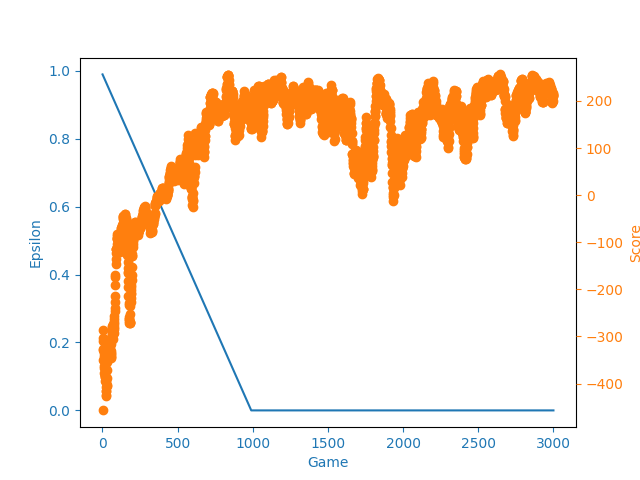
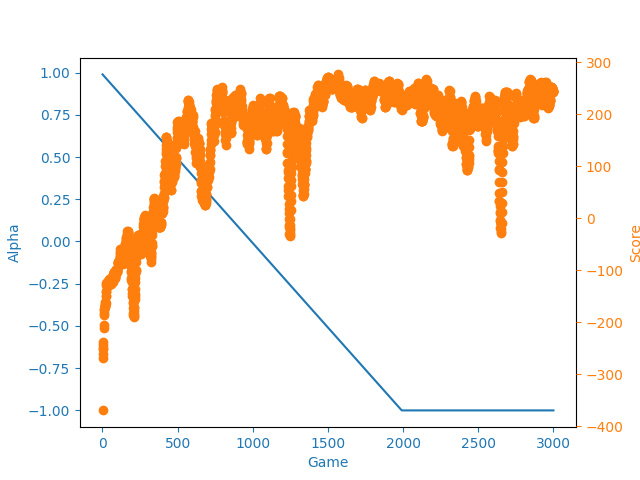
entropy regularization method

diff --git a/RL/Gymnasium/Mini projects/Actor_Critic/Lunar Lander/Actor_Critic.py b/RL/Gymnasium/Mini projects/Actor_Critic/Lunar Lander/Actor_Critic.py
@@ -55,7 +55,7 @@ class ActorCritic(nn.Module):
             entropy = torch.tensor(action_distribution.entropy())
             loss += (action_loss + value_loss - self.alpha * entropy)
 
-        self.alpha =  torch.tensor(max((self.alpha.item() - 1e-3), 0))
+        self.alpha =  torch.tensor(max((self.alpha.item() - 1e-3), -1))
         return loss
 
     def clearMemory(self):

diff --git a/RL/Gymnasium/Mini projects/Actor_Critic/Lunar Lander/utils.py b/RL/Gymnasium/Mini projects/Actor_Critic/Lunar Lander/utils.py
@@ -10,7 +10,7 @@ def plotLearning(x, scores, alphas, filename, lines=None):
 
     ax.plot(x, alphas, color="C0")
     ax.set_xlabel("Game", color="C0")
-    ax.set_ylabel("Epsilon", color="C0")
+    ax.set_ylabel("Alpha", color="C0")
     ax.tick_params(axis='x', colors="C0")
     ax.tick_params(axis='y', colors="C0")
 
